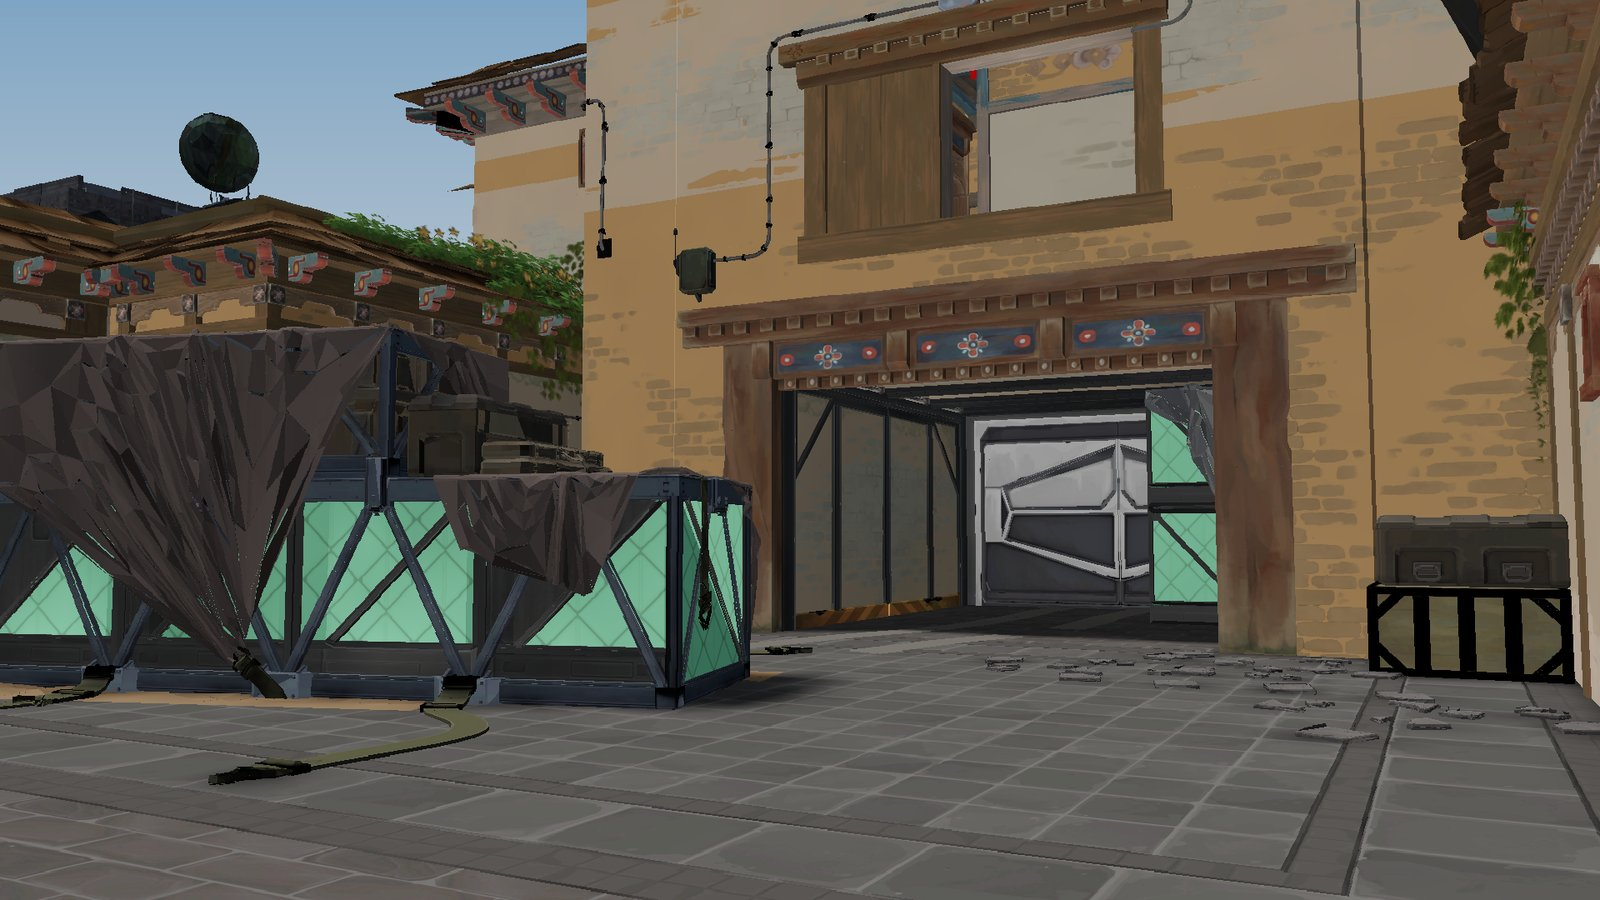
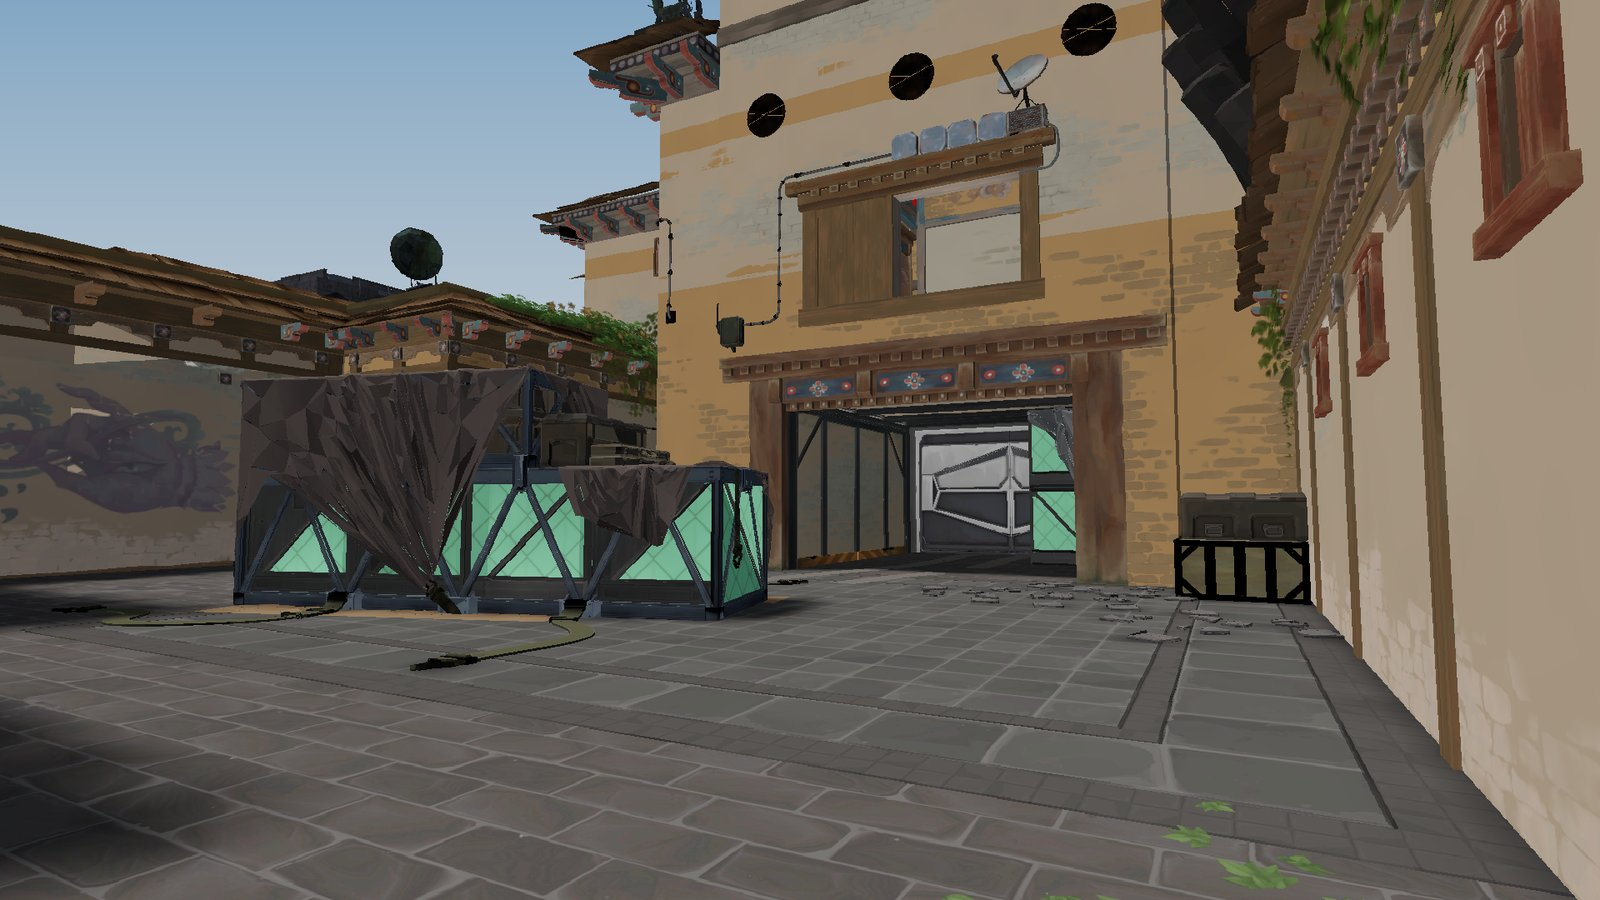
Make 90 degrees the default field of view
- Make 90 degrees the default field of view

- Re-render the Haven screenshots at 90 degrees

diff --git a/src/engine/Renderer.java b/src/engine/Renderer.java
@@ -17,7 +17,19 @@ import java.util.stream.IntStream;
  * column that are still empty (the interval list), and the column stops once every row is filled.
  */
 final class Renderer {
-    static final double DEFAULT_FOV = Math.toDegrees(2 * Math.atan(0.66));   // PL = 0.66, about 67 degrees
+    /**
+     * 90 degrees across, which is a camera plane exactly one metre wide at one metre.
+     *
+     * It was 67 - a plane half-width of 0.66, which is what every raycasting tutorial uses because
+     * Wolfenstein did, on a 320x200 screen that was nearly square in pixels. On a 16:9 window 67
+     * degrees reads as a telescope: walking feels slow because the walls go by at the edges of a
+     * view that has no edges in it, and a doorway a step away fills the frame. 90 is what a
+     * first-person game has used since Quake, and what {@code --fov} moves away from rather than
+     * towards. It costs almost nothing level (3.3 ms against 3.6 on school at 720p, on the card)
+     * and nearly doubles a frame tilted all the way up, because what a wider view adds is overscan
+     * for the pitch warp to resample: see the table in docs/ENGINEERING.md.
+     */
+    static final double DEFAULT_FOV = 90;
     static final double NEAR = 1e-3;
     static final double MAX_DIST = 80;
     static final int MAX_STOREYS = 8;      // how many storeys can stack at one (x, y)

diff --git a/docs/ENGINEERING.md b/docs/ENGINEERING.md
@@ -177,6 +177,17 @@ the window - past that, extra rays stop being new detail and become anti-aliasin
 
 ## Where the frame time actually goes
 
+**Every timing in this document was taken at a 67-degree field of view, which was the default until
+2026-09-26.** It is 90 now, and the difference is not uniform: a level frame is within a tenth of
+what it was (school, 1280x720, card: 3.30 ms against 3.56, measured back to back on a cool machine)
+and a frame tilted 45 degrees is nearly twice it (8.60 ms against 16.65, 116 fps against 60), because
+what a wider view adds is overscan for the pitch warp - 2,884 rays against 4,142 - and not anything
+level. The rest of the tables below have not been re-measured: this machine throttles under a
+sustained CPU benchmark hard enough to make the attempt useless (a 67-degree control taken after an
+hour of runs read 29.2 ms where the table here says 20.8, and one pair came out *faster* at 90 than
+at 67), so they want a cool, quiet machine and an afternoon. Ratios measured back to back in one
+sitting are what carries; the absolute numbers are a record of a particular day.
+
 `--bench` times the raycaster only. With both windows open the loop also has to blit the main view
 and redraw the ray view, and those dominate. Measured in the real windowed loop, 640x360, both
 windows open:
@@ -518,13 +529,21 @@ may still narrow it with `"maxPitch"` when its author wants the view held down; 
 decision, and the loader clamps it at 60 degrees.
 
 Under both sits a hard ceiling that is about the machine and not about taste. The overscan grows
-as a tangent and runs away at 90 degrees less the vertical half-FOV - 69.6 degrees at the default
-field of view - so `Warp.fits` returns the furthest pitch whose upright image still fits a budget,
-and `Host` clamps to it every frame. The budget is **a multiple of a level frame (16), not a count
-of pixels**: the overscan a pitch needs is a fixed ratio of the frame at any render size, so a
-budget in pixels would let the camera tilt further on a small window than on a large one. As a
-multiple it stops at 55.1 degrees at 640x360, at 1280x720 and at 3840x2160 alike. It is worked out
-by asking `Warp.plan` itself rather than by a second copy of its formulas.
+as a tangent and runs away at 90 degrees less the vertical half-FOV - 60.6 degrees at the default
+90-degree field of view, and it was 69.6 when the default was 67 - so `Warp.fits` returns the
+furthest pitch whose upright image still fits a budget, and `Host` clamps to it every frame. The
+budget is **a multiple of a level frame (16), not a count of pixels**: the overscan a pitch needs is
+a fixed ratio of the frame at any render size, so a budget in pixels would let the camera tilt
+further on a small window than on a large one. As a multiple it stops at the same angle at 640x360,
+at 1280x720 and at 3840x2160 alike. It is worked out by asking `Warp.plan` itself rather than by a
+second copy of its formulas.
+
+**Widening the field of view eats into that ceiling, and 90 degrees leaves little of it.** The
+budget allows 48.5 degrees of pitch at 90 degrees across, where it allowed 55.1 at 67, and
+`MAX_PITCH` is 45: the margin between what the camera may do and what the machine will hold has
+gone from ten degrees to three and a half. What a tilt costs went up with it - at 720p, 45 degrees
+asks for a 4142x2111 buffer, 9.5 level frames, against 2902x1680 and 5.3 before. Raising either
+number now means measuring the other.
 
 ### What looking up costs, and one thing that did not help
 
@@ -942,7 +961,9 @@ they were before the split.
 
 ## How it works
 
-1. **Camera**: `r = dir + plane * camX`, `PL = 0.66`, `F = (W/2)/PL`. r is deliberately not
+1. **Camera**: `r = dir + plane * camX`, `PL = 1.0` at the default 90-degree field of view
+   (`PL = tan(FOV/2)`; it was 0.66, which is 67 degrees and what every raycasting tutorial uses),
+   `F = (W/2)/PL`. r is deliberately not
    normalised, so the intersection parameter t *is* the perpendicular distance and there is no
    fisheye. -> `Renderer.Column.render`
 2. **Projection**: `rowZ(z, t) = hz - (z - eye) * F / t`, with `hz = H/2 + pitch` (y-shearing).

diff --git a/README.md b/README.md
@@ -92,7 +92,7 @@ engine.
 | `--fps N` | Frame-time target for dynamic resolution; `0` disables it (default 60) |
 | `--ss N` | Supersampling factor, 1-8 (default 1) |
 | `--feet M` | Starting floor height in metres, e.g. to start on an upper storey |
-| `--fov N` | Field of view in degrees, 30-120 (default 67). Applies to the window, `--shot`, `--shots` and `--bench` alike |
+| `--fov N` | Field of view in degrees, 30-120 (default 90). Applies to the window, `--shot`, `--shots` and `--bench` alike |
 | `--play` | The game with nothing on the screen but the game: no overlay, no minimap, no toggles, no flying |
 | `--shade card\|cpu` | Where the frame is shaded. The card by default and three to four times faster; the CPU by default for `--verify`, `--shot` and `--shots`. `--gpu` and `--cpu` are the old spellings |
 | `--hdr` | Shade in light rather than in sRGB numbers, and roll the highlights off filmically |
